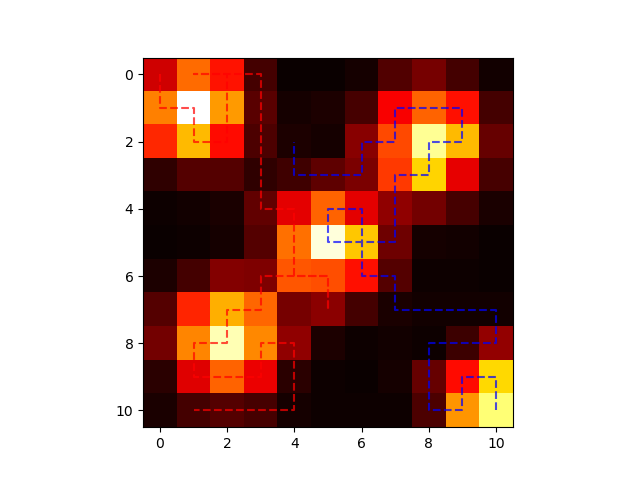
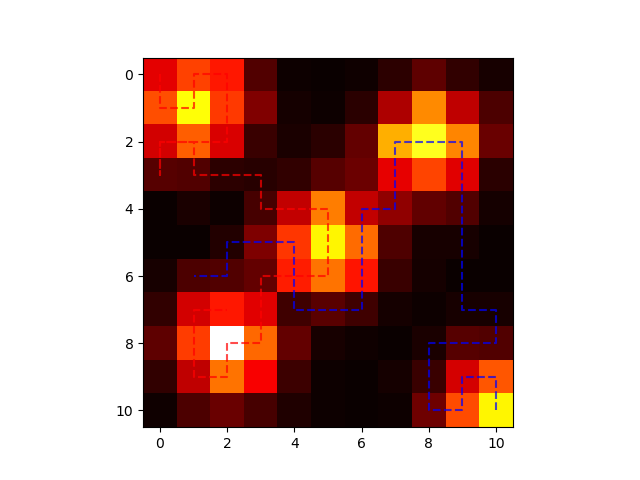
working viz for multi-agent vulcan

Changed region(s): [[0.2188, 0.125, 0.8125, 0.8438], [0.625, 0.6562, 0.8125, 0.9062], [0.4375, 0.8438, 0.4688, 0.875]]

diff --git a/test/test_rh_ma_vulcan.py b/test/test_rh_ma_vulcan.py
@@ -20,11 +20,6 @@ from rh_ma_vulcan import MultiAgentVulcan  # NOQA
 
 def visualize_path(paths: List[List[NDArray[np.int64]]], map: Map, filename: str):
     fig, ax = plt.subplots()
-    map_limits = [0, map.num_of_rows, 0, map.num_of_cols]
-    ax.set_xlim(map_limits[0], map_limits[1])
-    ax.set_ylim(map_limits[2], map_limits[3])
-    ax.set_xticks([])
-    ax.set_yticks([])
     ax.imshow(map.grid, cmap="hot")
 
     agent_colors = "rbgkymc"
@@ -32,7 +27,7 @@ def visualize_path(paths: List[List[NDArray[np.int64]]], map: Map, filename: str
 
     lines = []
     for agent in range(num_of_agents):
-        (line,) = ax.plot([], [], lw=2, color=agent_colors[agent], alpha=0.7)
+        (line,) = ax.plot([], [], lw=2, color=agent_colors[agent], ls="--", alpha=0.7)
         lines.append(line)
 
     def init():
